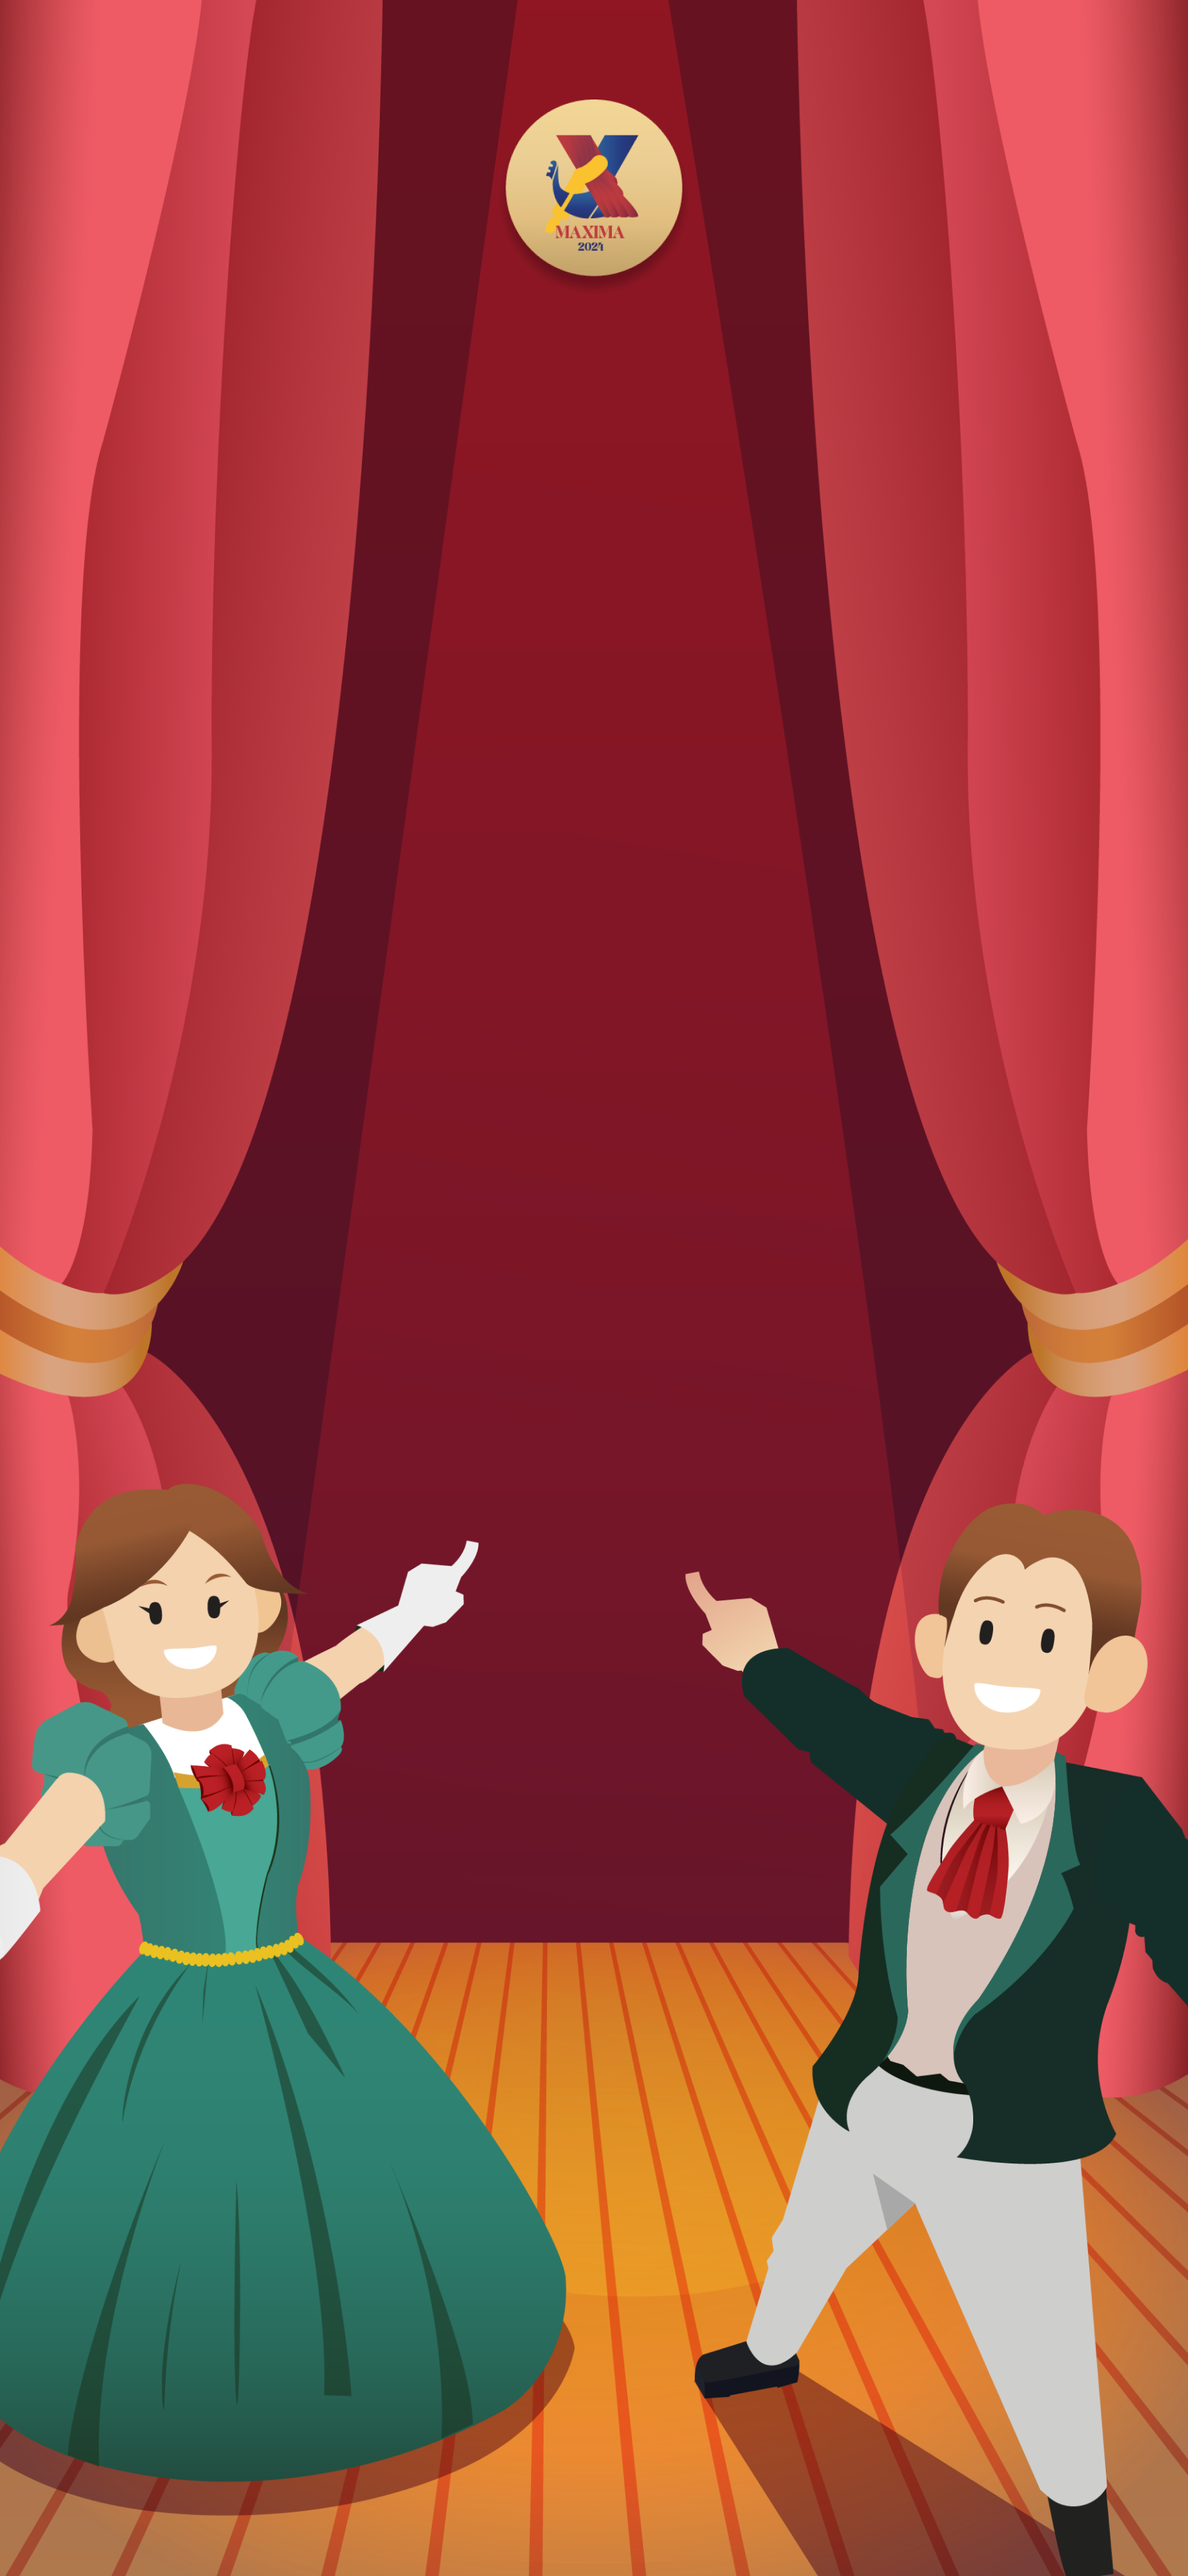
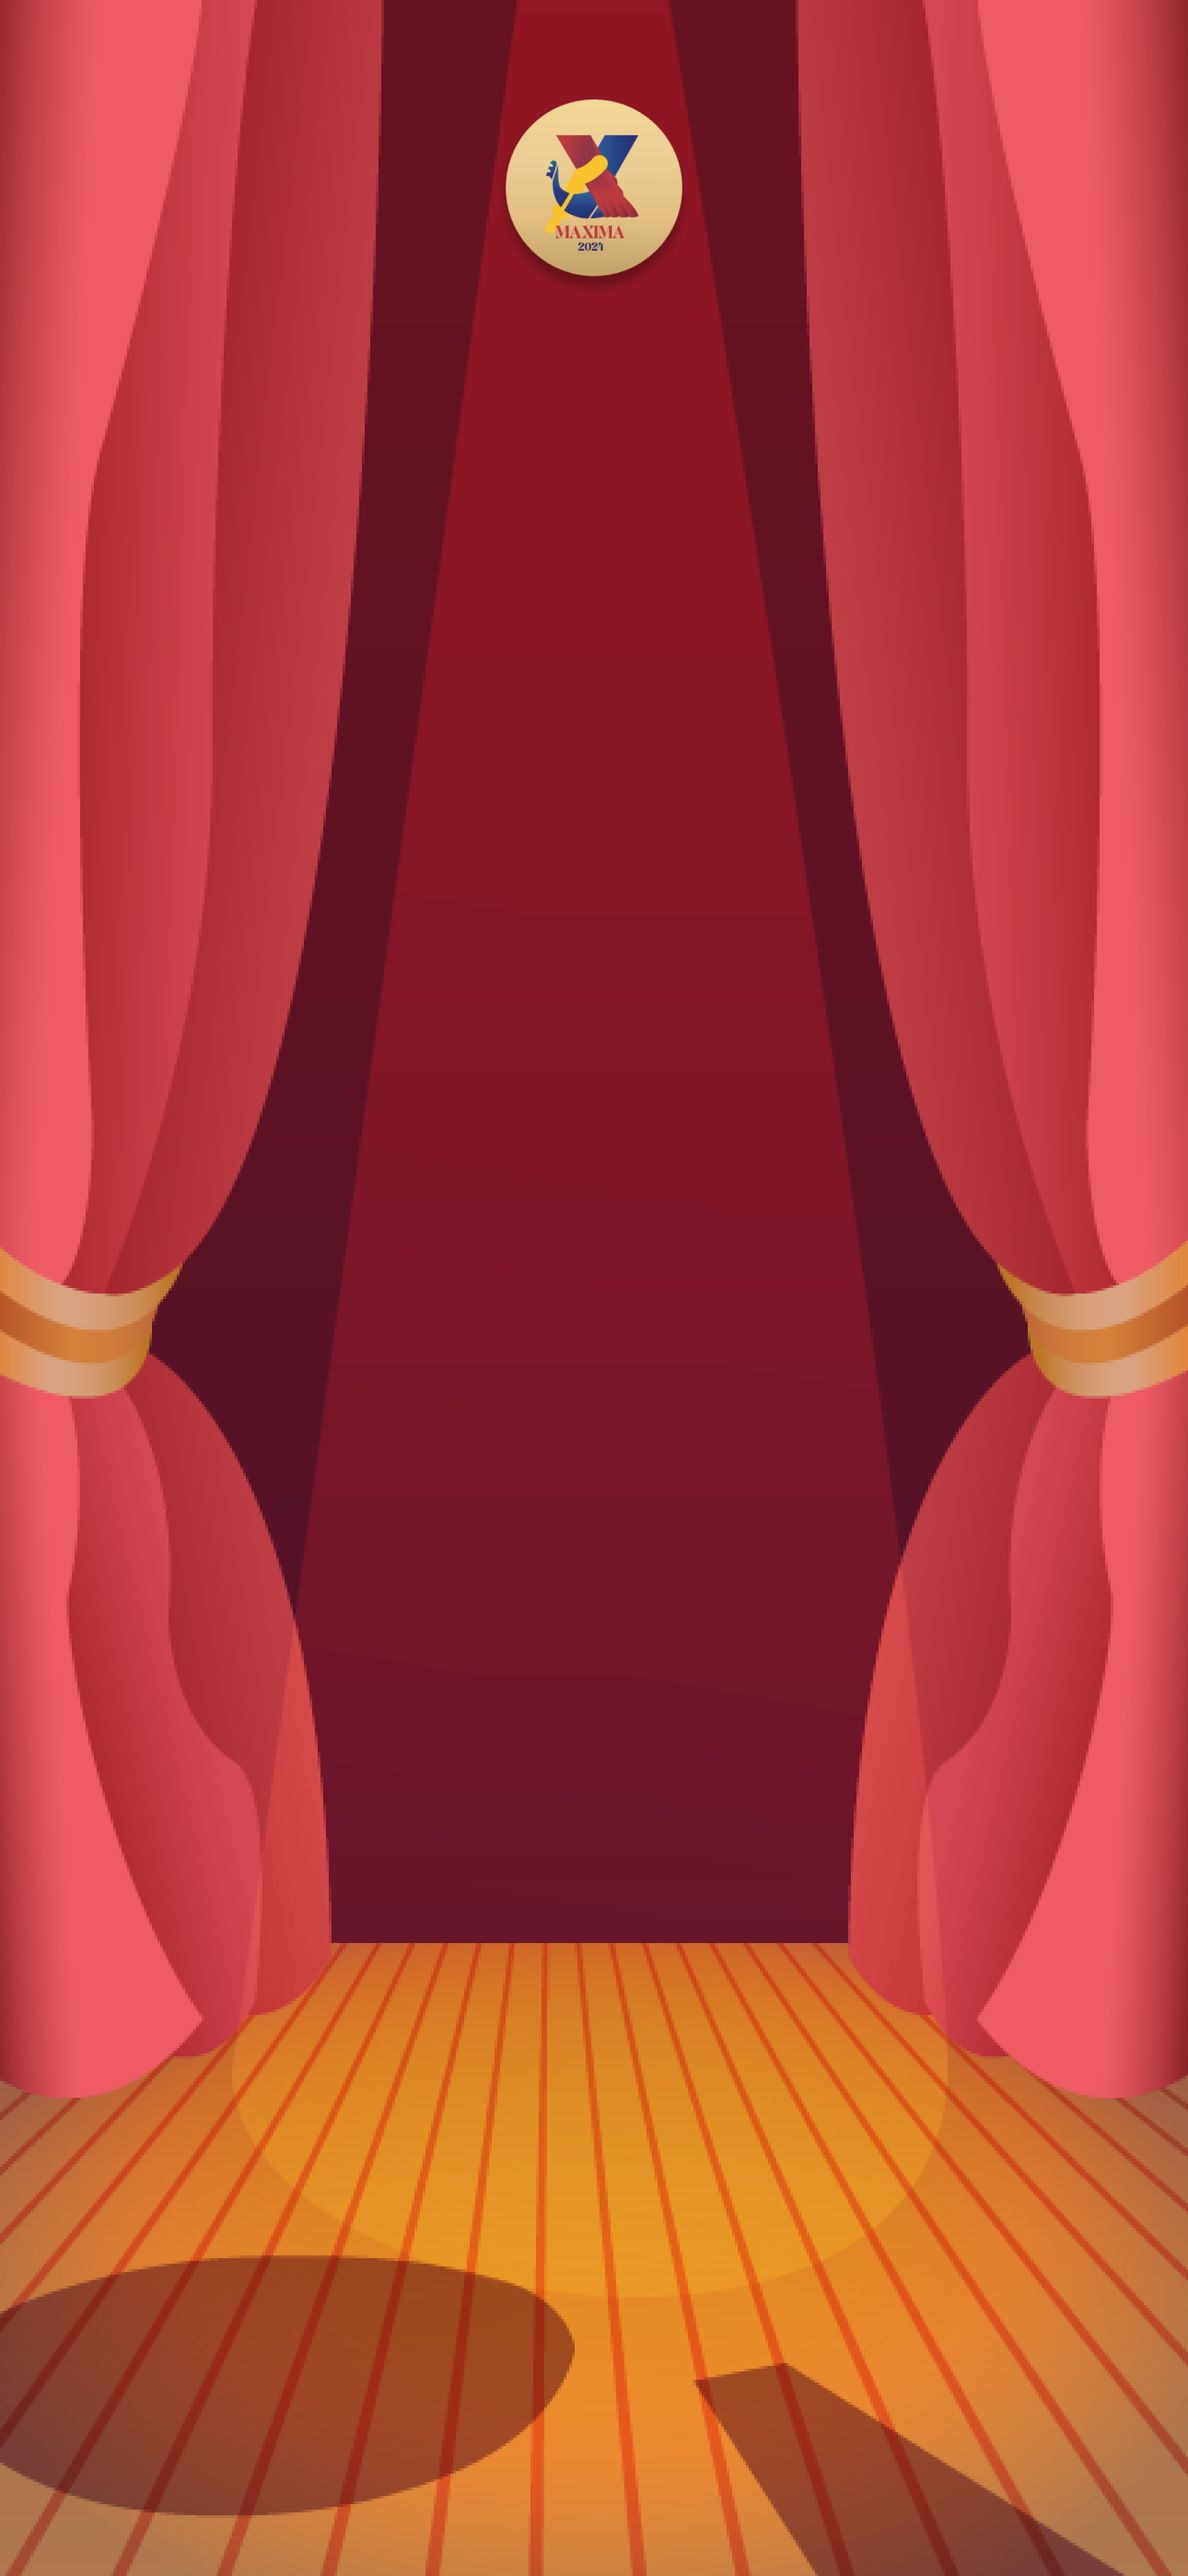
style: differ bg for malpun or not

Changed region(s): [[0.0, 0.5601, 0.493, 0.9646], [0.5855, 0.5601, 1.0, 1.0]]

diff --git a/src/pages/(main)/malpun/_layout.tsx b/src/pages/(main)/malpun/_layout.tsx
@@ -1,17 +1,26 @@
-import { Outlet } from "react-router-dom";
+import { Outlet, useLocation } from "react-router-dom";
 import { Stack } from "@chakra-ui/react";
 
 const MalpunLayout = () => {
+  const loct = useLocation();
+
   return (
     <Stack
       alignItems={"center"}
       justifyContent={{ base: "center", lg: "space-around" }}
       minH={"100vh"}
       minW={"100vw"}
-      bgImage={{
-        base: "/bg/malpun-bg-mobile.png",
-        lg: "/bg/malpun-bg-desktop.png",
-      }}
+      bgImage={
+        loct.pathname.endsWith("malpun")
+          ? {
+              base: "/bg/malpun-mobile.png",
+              lg: "/bg/malpun-desktop-main.png",
+            }
+          : {
+              base: "/bg/malpun-bg-mobile.png",
+              lg: "/bg/malpun-desktop-main.png",
+            }
+      }
       bgSize={"cover"}
       bgRepeat={"no-repeat"}
       bgPosition={{ base: "", md: "center" }}
